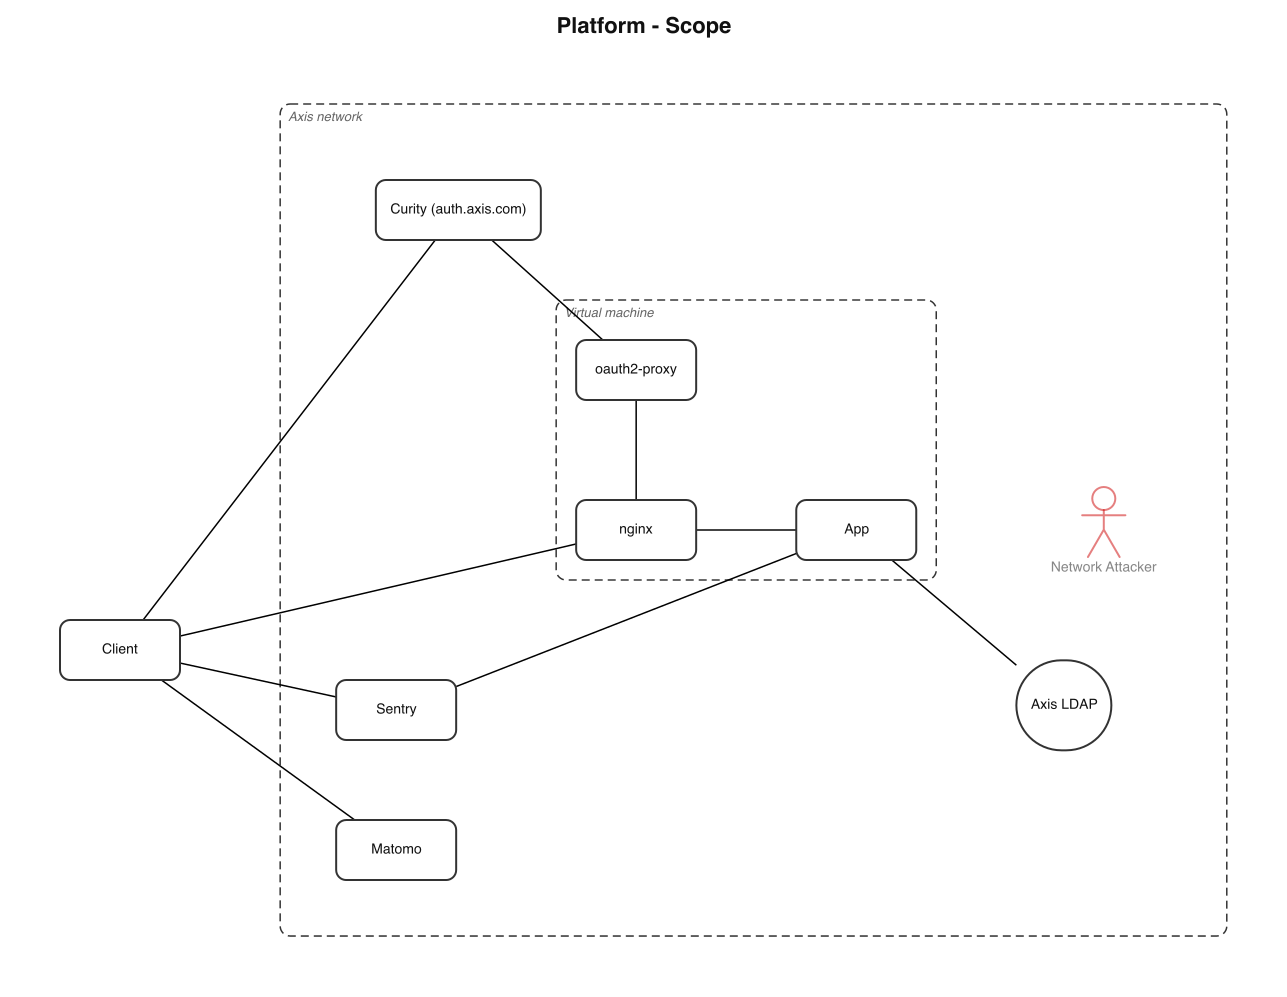
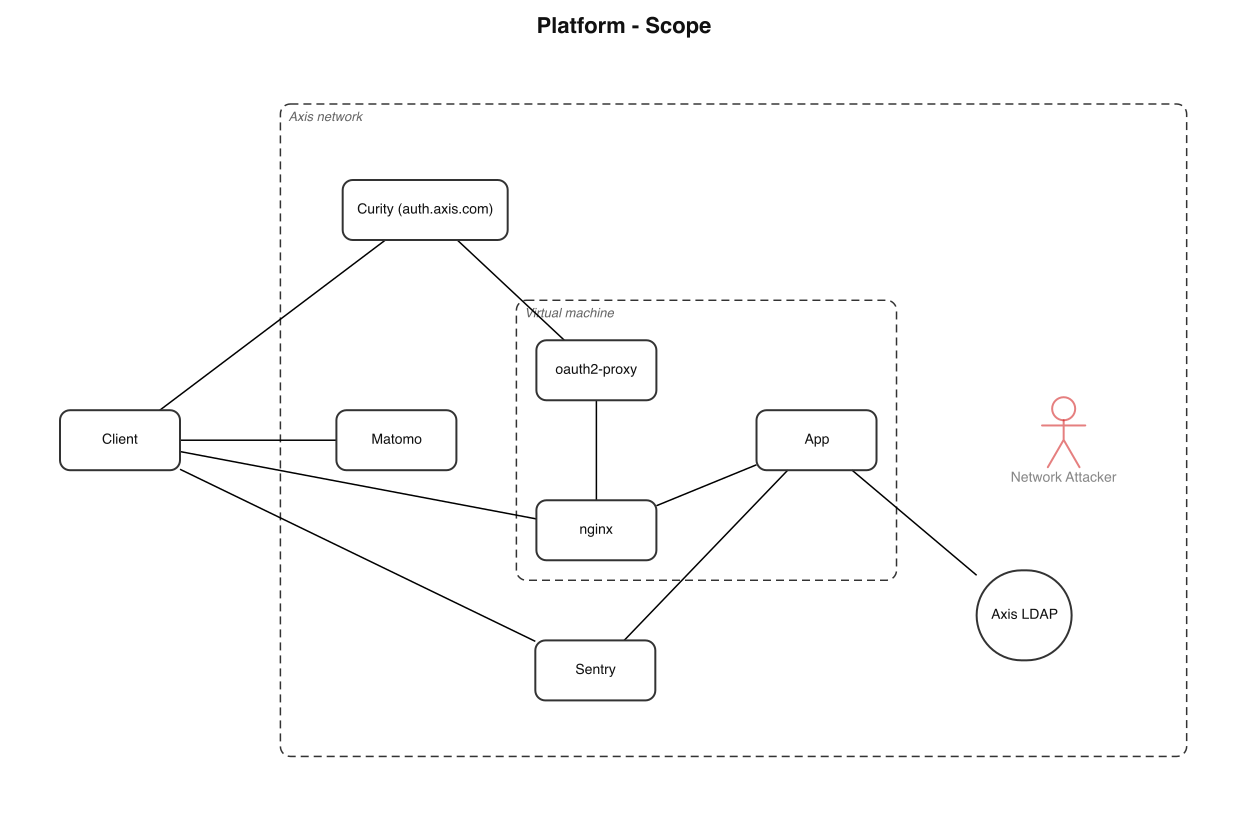
make render-all cache its results

diff --git a/src/render-all.ts b/src/render-all.ts
@@ -1,18 +1,67 @@
 // render-all.ts
 // Renders every example graph into renders/, mirroring the source folder:
-//   graph.ggn                 -> renders/graph.png
-//   demo/showcase/overlap.ggn -> renders/demo/showcase/overlap.png
-//   scopes/asrv_scope.ggn     -> renders/scopes/asrv_scope.png
-//   example/parsedGraph...json-> renders/example/parsedGraphExample.png
+//   graph.ggn                 -> renders/graph.png, renders/graph_cola.png
+//   demo/showcase/overlap.ggn -> renders/demo/showcase/overlap.png, ..._cola.png
+//   scopes/asrv_scope.ggn     -> renders/scopes/asrv_scope.png, ..._cola.png
+//   example/parsedGraph...json-> renders/example/parsedGraphExample.png, ..._cola.png
 // Usage: tsx src/render-all.ts
 
 import { execFileSync } from "node:child_process";
+import { createHash } from "node:crypto";
 import fs from "node:fs";
 import path from "node:path";
 
 const rootDir = path.resolve(__dirname, "..");
 const outDir = path.join(rootDir, "renders");
+const cachePath = path.join(outDir, ".render-cache.json");
 fs.mkdirSync(outDir, { recursive: true });
+
+function filesIn(dir: string): string[] {
+  return fs.readdirSync(dir, { withFileTypes: true }).flatMap((entry) => {
+    const file = path.join(dir, entry.name);
+    return entry.isDirectory() ? filesIn(file) : [file];
+  });
+}
+
+function importedFiles(file: string, seen = new Set<string>()): string[] {
+  const absolutePath = path.resolve(rootDir, file);
+  if (seen.has(absolutePath) || !fs.existsSync(absolutePath)) return [];
+  seen.add(absolutePath);
+  const source = fs.readFileSync(absolutePath, "utf8");
+  const imports =
+    path.extname(absolutePath) === ".ggn"
+      ? [...source.matchAll(/(^|\n)\s*import\s+"([^"]+)"/g)].map(
+          (match) => match[2],
+        )
+      : [...source.matchAll(/"imports"\s*:\s*\[([\s\S]*?)\]/g)].flatMap(
+          (match) =>
+            [...match[1].matchAll(/"([^"]+)"/g)].map((item) => item[1]),
+        );
+  return [
+    absolutePath,
+    ...imports.flatMap((imported) =>
+      importedFiles(path.resolve(path.dirname(absolutePath), imported), seen),
+    ),
+  ];
+}
+
+function fingerprint(files: string[], prefix = ""): string {
+  const hash = createHash("sha256");
+  hash.update(prefix);
+  for (const file of [...new Set(files)].sort()) {
+    hash.update(file);
+    hash.update(fs.readFileSync(file));
+  }
+  return hash.digest("hex");
+}
+
+function readCache(): Record<string, string> {
+  try {
+    return JSON.parse(fs.readFileSync(cachePath, "utf8"));
+  } catch {
+    return {};
+  }
+}
 
 // graph.ggn at the root (if present), every DSL graph under demo/ and scopes/,
 // and the JSON example
@@ -38,17 +87,50 @@ const jsonExample = path.join("example", "parsedGraphExample.json");
 if (fs.existsSync(path.join(rootDir, jsonExample))) inputs.push(jsonExample);
 
 const ext = ["p", "n", "g"].join(""); // built so the literal isn't in source noise
+const renderFiles = [
+  ...filesIn(path.join(rootDir, "src")).filter((file) => file.endsWith(".ts")),
+  ...["style.jsonc", "style.json"]
+    .map((file) => path.join(rootDir, file))
+    .filter(fs.existsSync),
+];
+const renderFingerprint = fingerprint(renderFiles);
+const cache = readCache();
+let rendered = 0;
+let skipped = 0;
 for (const input of inputs) {
   const subDir = path.dirname(input); // "." for root files, else a source subdirectory
   const base = path.basename(input).replace(/\.(ggn|json)$/i, "");
   const destDir = subDir === "." ? outDir : path.join(outDir, subDir);
   fs.mkdirSync(destDir, { recursive: true });
-  const output = path.join(destDir, `${base}.${ext}`);
-  // index.ts formats every DSL input before parsing and rendering it.
-  execFileSync("tsx", ["src/index.ts", input, output], {
-    stdio: "inherit",
-    cwd: rootDir,
-  });
+  const outputs = [
+    path.join(destDir, `${base}.${ext}`),
+    path.join(destDir, `${base}_cola.${ext}`),
+  ];
+  const inputFingerprint = fingerprint(importedFiles(input), renderFingerprint);
+  if (
+    cache[input] === inputFingerprint &&
+    outputs.every((output) => fs.existsSync(output))
+  ) {
+    skipped += outputs.length;
+    continue;
+  }
+  for (const [layout, suffix] of [
+    ["constraint", ""],
+    ["cola", "_cola"],
+  ] as const) {
+    const output = path.join(destDir, `${base}${suffix}.${ext}`);
+    // index.ts formats every DSL input before parsing and rendering it.
+    execFileSync("tsx", ["src/index.ts", input, output], {
+      stdio: "inherit",
+      cwd: rootDir,
+      env: { ...process.env, GRAPHGEN_LAYOUT: layout },
+    });
+  }
+  cache[input] = inputFingerprint;
+  rendered += outputs.length;
 }
+fs.writeFileSync(cachePath, `${JSON.stringify(cache, null, 2)}\n`);
 
-console.log(`\nRendered ${inputs.length} image(s) under ${outDir}`);
+console.log(
+  `\nRendered ${rendered} image(s), skipped ${skipped} unchanged image(s) under ${outDir}`,
+);
